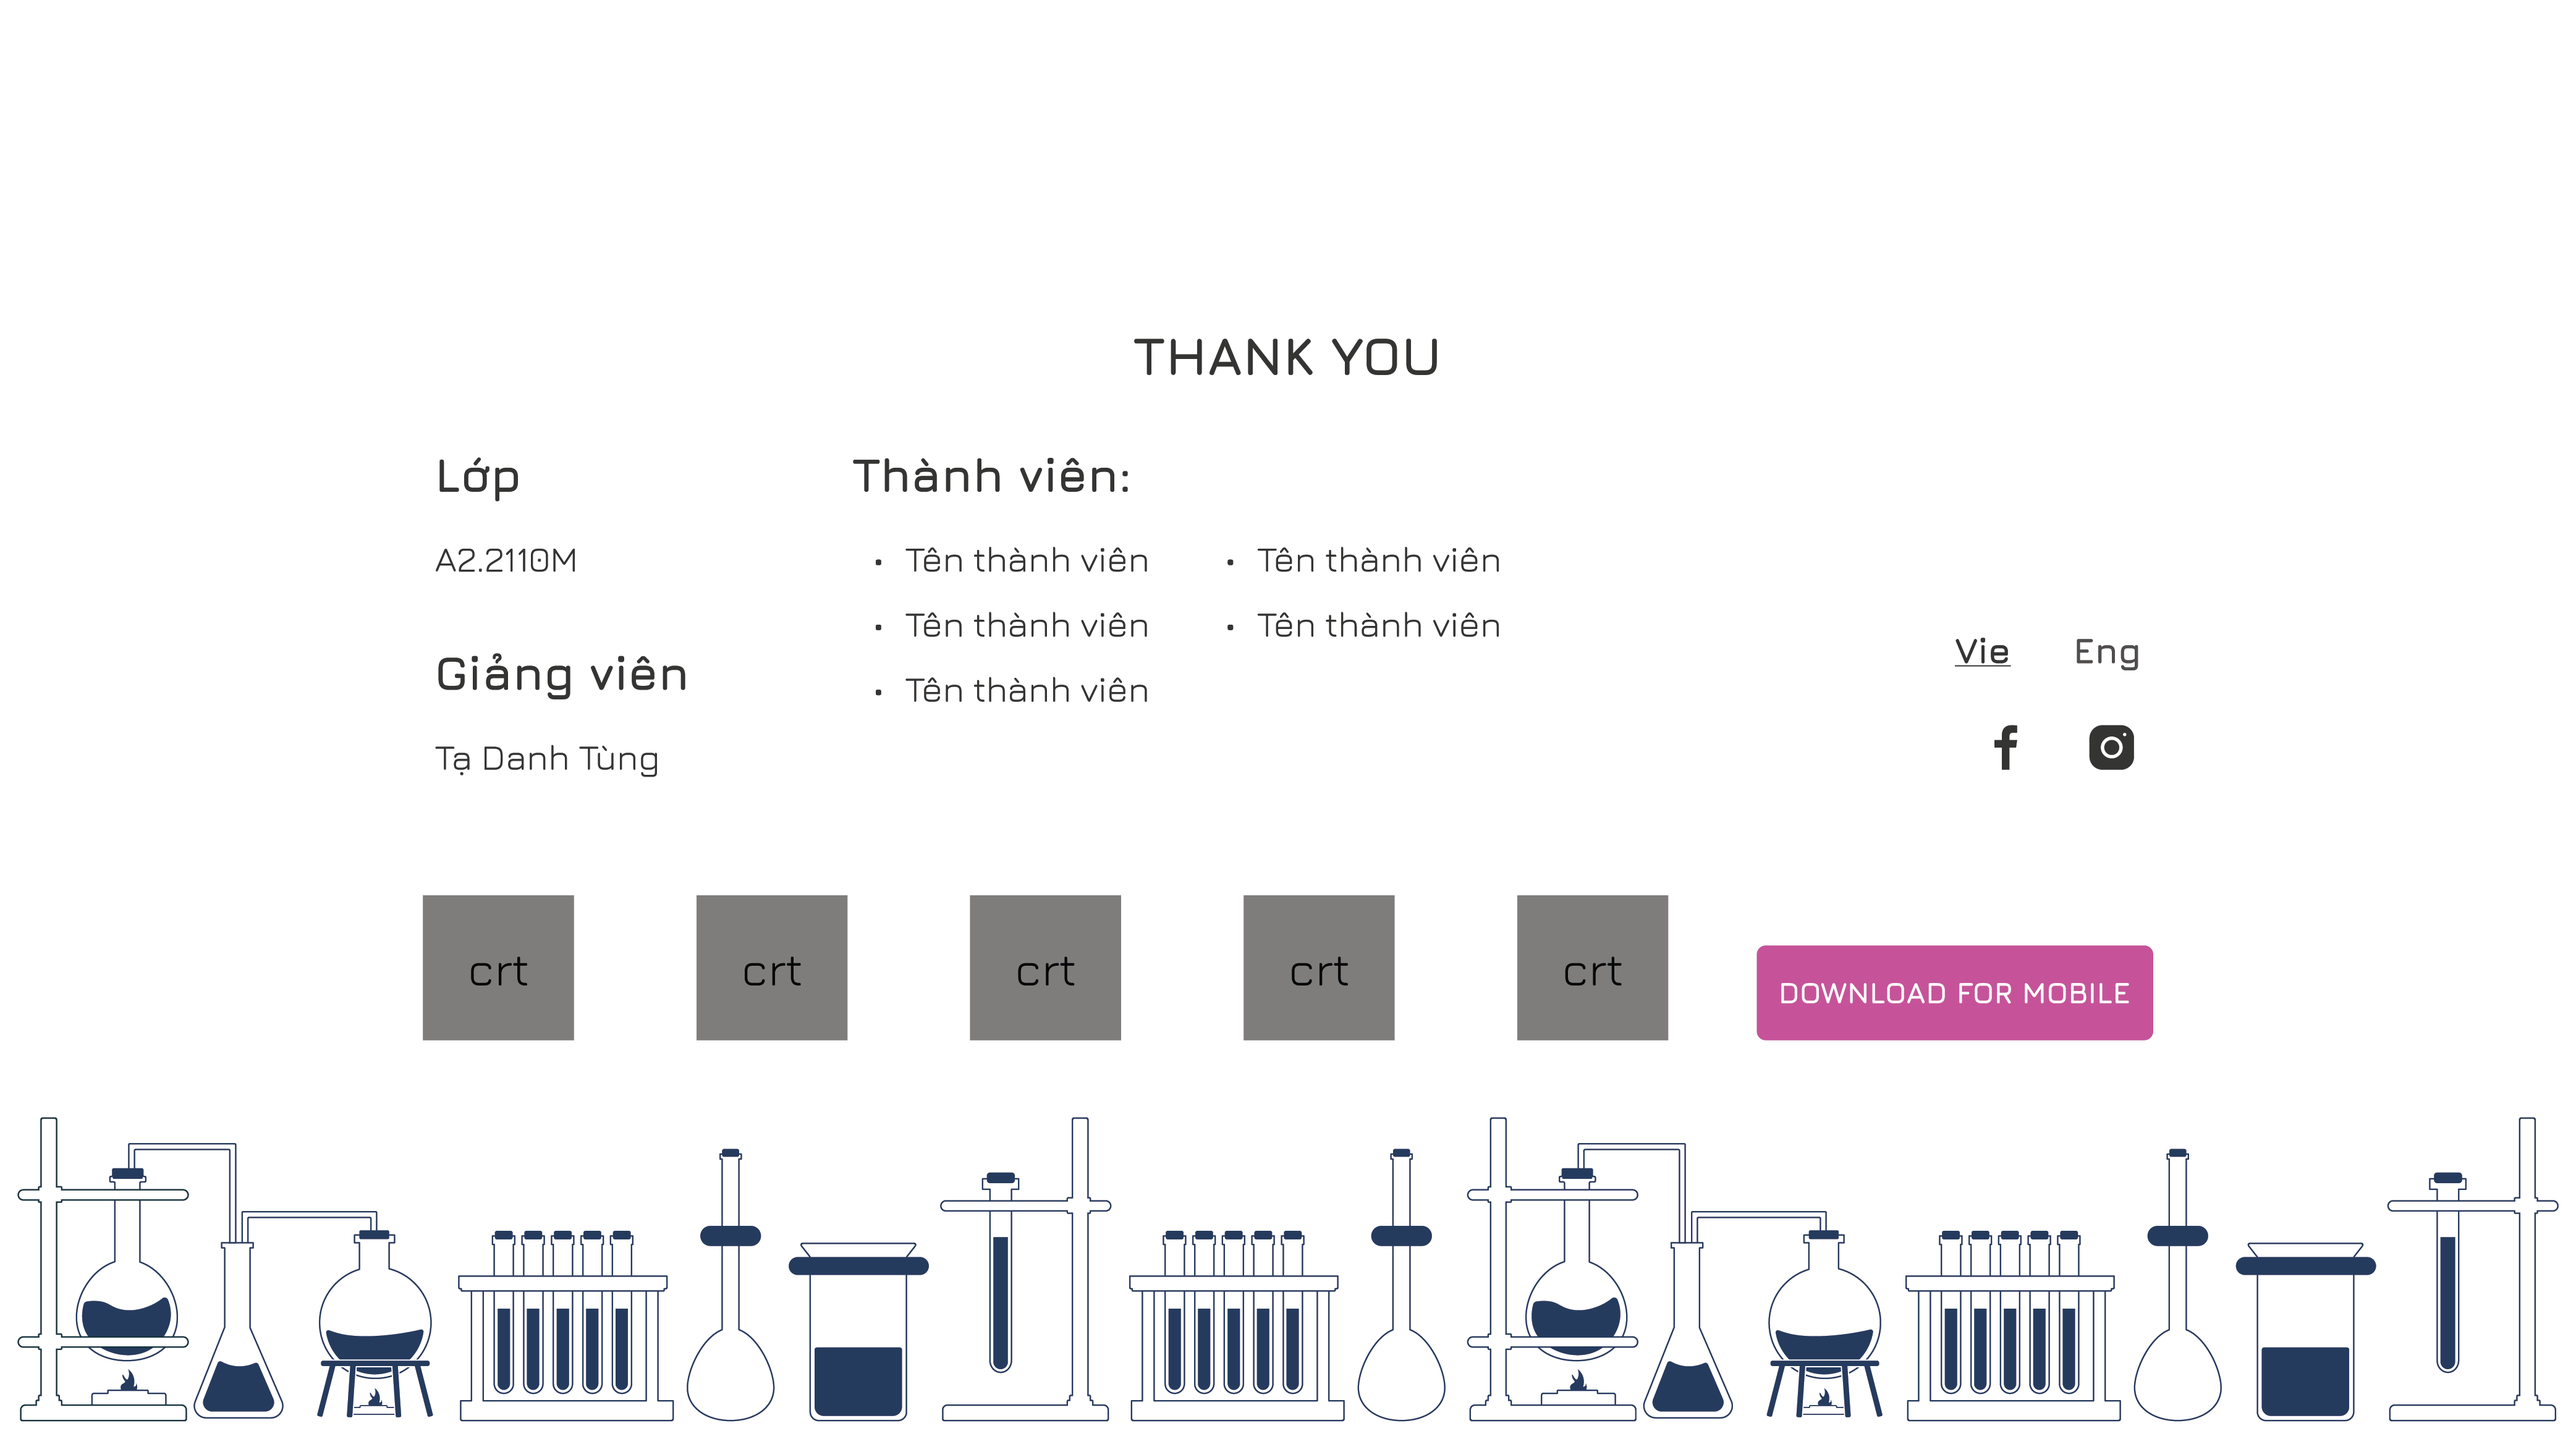
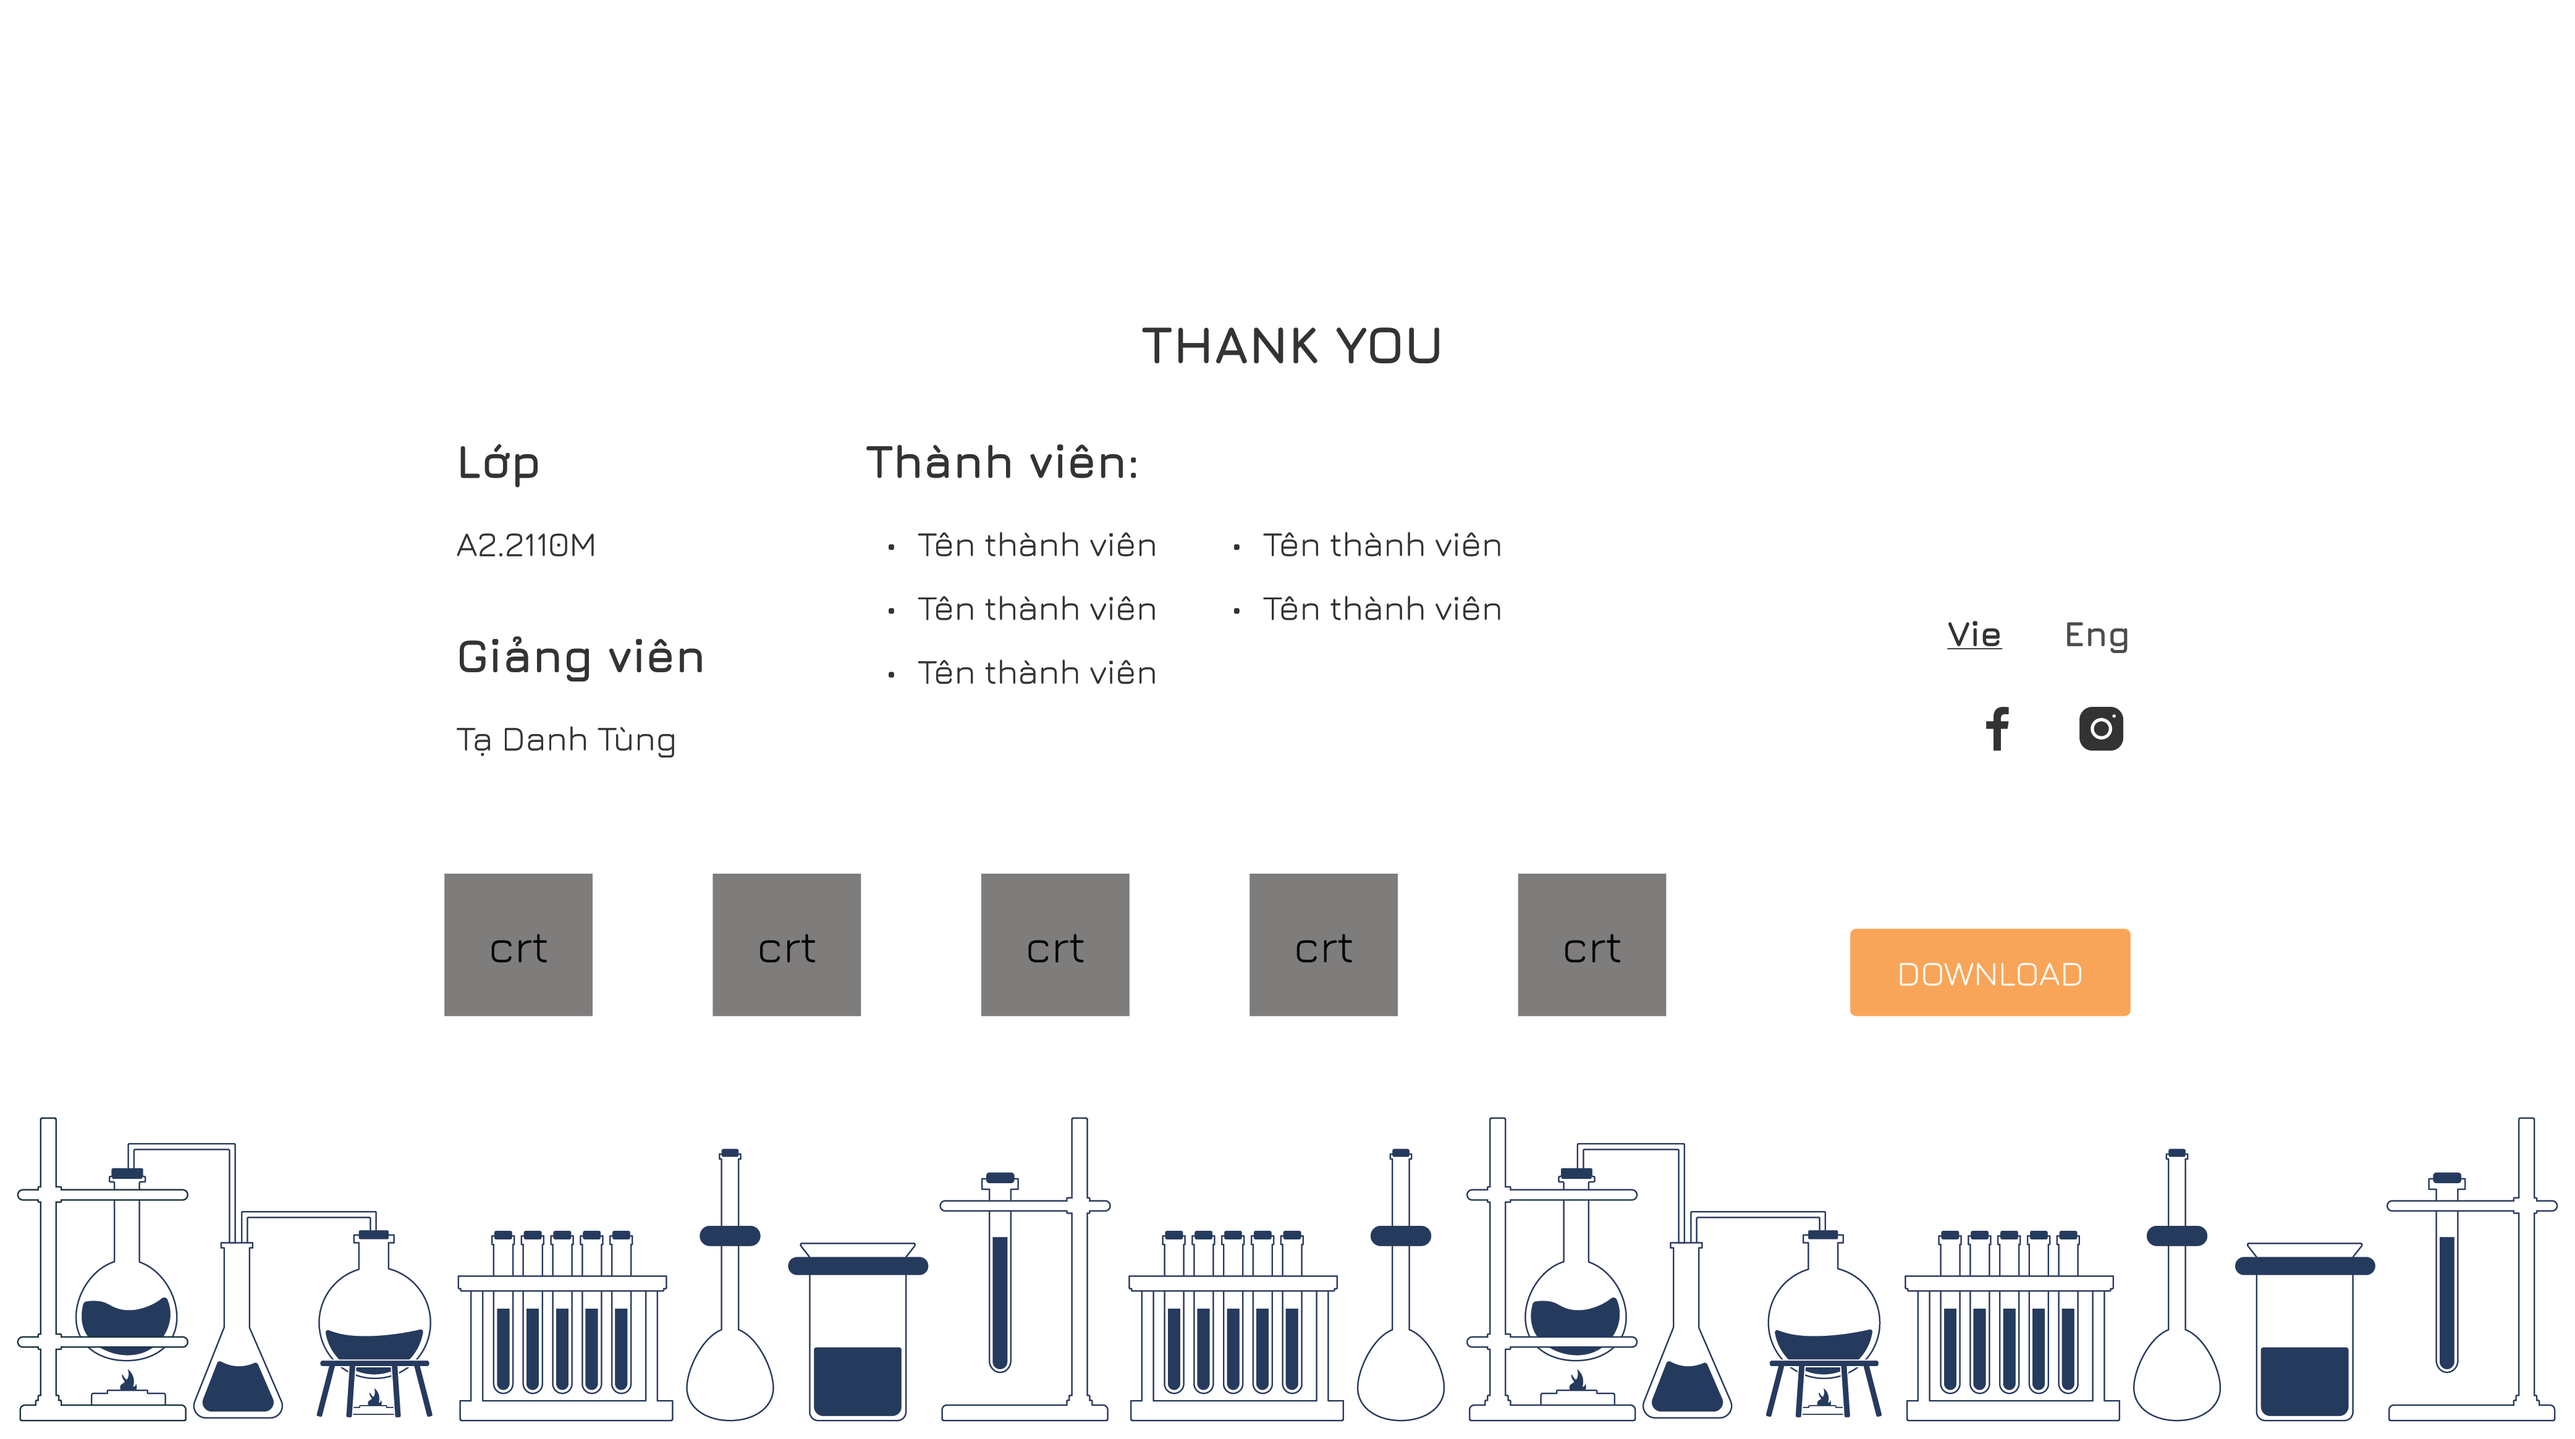
update

diff --git a/index.html b/index.html
@@ -21,8 +21,9 @@
           </button>
           <div class="collapse navbar-collapse" id="navbarNav">
             <ul class="navbar-nav">
+              <img src="./IMG/Cat.png" alt="" class="img-fluid logo-nav">
               <li class="nav-item">
-                <a class="nav-link active" aria-current="page" href="#">DOWNLOAD</a>
+                <a class="nav-link" aria-current="page" href="#">GIỚI THIỆU</a>
               </li>
               <li class="nav-item">
                 <a class="nav-link" href="#plot">CỐT TRUYỆN</a>
@@ -33,6 +34,9 @@
               <li class="nav-item">
                 <a class="nav-link" aria-disabled="true" href="#boarding">NHÂN VẬT</a>
               </li>
+              <li class="nav-item">
+                <button type="button" class="btn down">DOWNLOAD</button>
+              </li>
             </ul>
           </div>
         </div>
@@ -40,30 +44,25 @@
 
     <!-- INTRODUC -->
 
-    <div class="container text-center introduc">
-        <div class="row">
-          <div class="col">
-            <img src="./IMG/Cat.png" class="img-fluid" alt="...">
+    <div class="container px-4 text-center introduc">
+      <div class="row gx-5" style="margin-left: 10px;">
+        <div class="col">
+         <div class="p-3">
+            <h2>ĐỒ ÁN TỐT NGHIỆP <br> KỲ IV - FPT ARENA</h2>
+            <p>
+              Lớp: A2.2110M <br> <br>
+              Giáo viên hướng dẫn: Tạ Danh Tùng <br> <br>
+              Thành viên: Hoàng Vân Anh, Lê Mai Anh, Lục Hoàng Hải, <br>
+              Nguyễn Thị Diệu Linh, Lê Mai Minh Duy
+            </p>
+         </div>
+        </div>
+        <div class="col">
+          <div class="p-3">
+            <img src="./IMG/img-demo.png" class="img-fluid" alt="...">
           </div>
         </div>
-
-        <div class="container text-center">
-            <div class="row">
-              <div class="col">
-                <p>FPT ARENA</p>
-              </div>
-              <div class="col">
-               <p>A2.2110M</p>                
-              </div>
-              <div class="col">
-              <p>TEAM 03</p>
-              </div>
-            </div>
-        </div>
-
-        <div class="d-grid gap-2 col-6 mx-auto">
-          <button class="btn" type="button" style="background-color: #C65197; color: #fff;">DOWNLOAD FOR MOBILE</button>
-        </div>
+      </div>
     </div>
 
     <!-- CONTENT -->
@@ -219,7 +218,6 @@
 
     <!-- BACKGROUND -->
     <div class="bgr">
-        <img src="./IMG/demo-img-bgr.png" class="img-fluid" alt="...">
     </div>
 
 

diff --git a/styles.css b/styles.css
@@ -21,16 +21,22 @@ body {
     align-items: center;
 }
 
-.p-3 h3 {
-    font-size: 24px;
+.p-3 {
+    text-align: justify;
     font-weight: 600;
 }
 
 /* END */
 
 /* NAVBAR */
+.logo-nav {
+    width: 140px;
+}
 .nav-item {
-    margin: 0 100px;
+    margin: 0 50px;
+}
+.navbar-nav {
+    align-items: center;
 }
 
 .navbar {
@@ -44,22 +50,31 @@ body {
 }
 
 .nav-item a {
-    color: #000;
-    font-size: 24px;
+    color: white;
+    font-size:18px;
     font-weight: 600;
 }
 
 #navbarNav {
     justify-content: center;
 }
+.down {
+    background-color: #FDA656 !important;
+    color: #fff !important;
+}
 /* END */
 
 /* INTRODUC */
 .col p {
+    font-weight: lighter;
     color: #fff;
     font-size: 20px;
     padding: 20px 0px;
-    text-align: center;
+}
+.p-3 h2 {
+    font-weight: bold;
+    color: #fff;
+    font-size: 57px;
 }
 
 .introduc {

diff --git a/responsive.css b/responsive.css
@@ -6,11 +6,14 @@
 
 /* Tablet & Mobile */
 @media (max-width: 1023px) {
+    .p-3 h2 {
+        font-size: 45px;
+    }
     .nav-item {
-        margin: 0 50px;
+        margin: 0 30px;
     }
     .nav-item a {
-        font-size: 20px;
+        font-size: 18px;
     }
     .bgr {
         height: 3884px;
